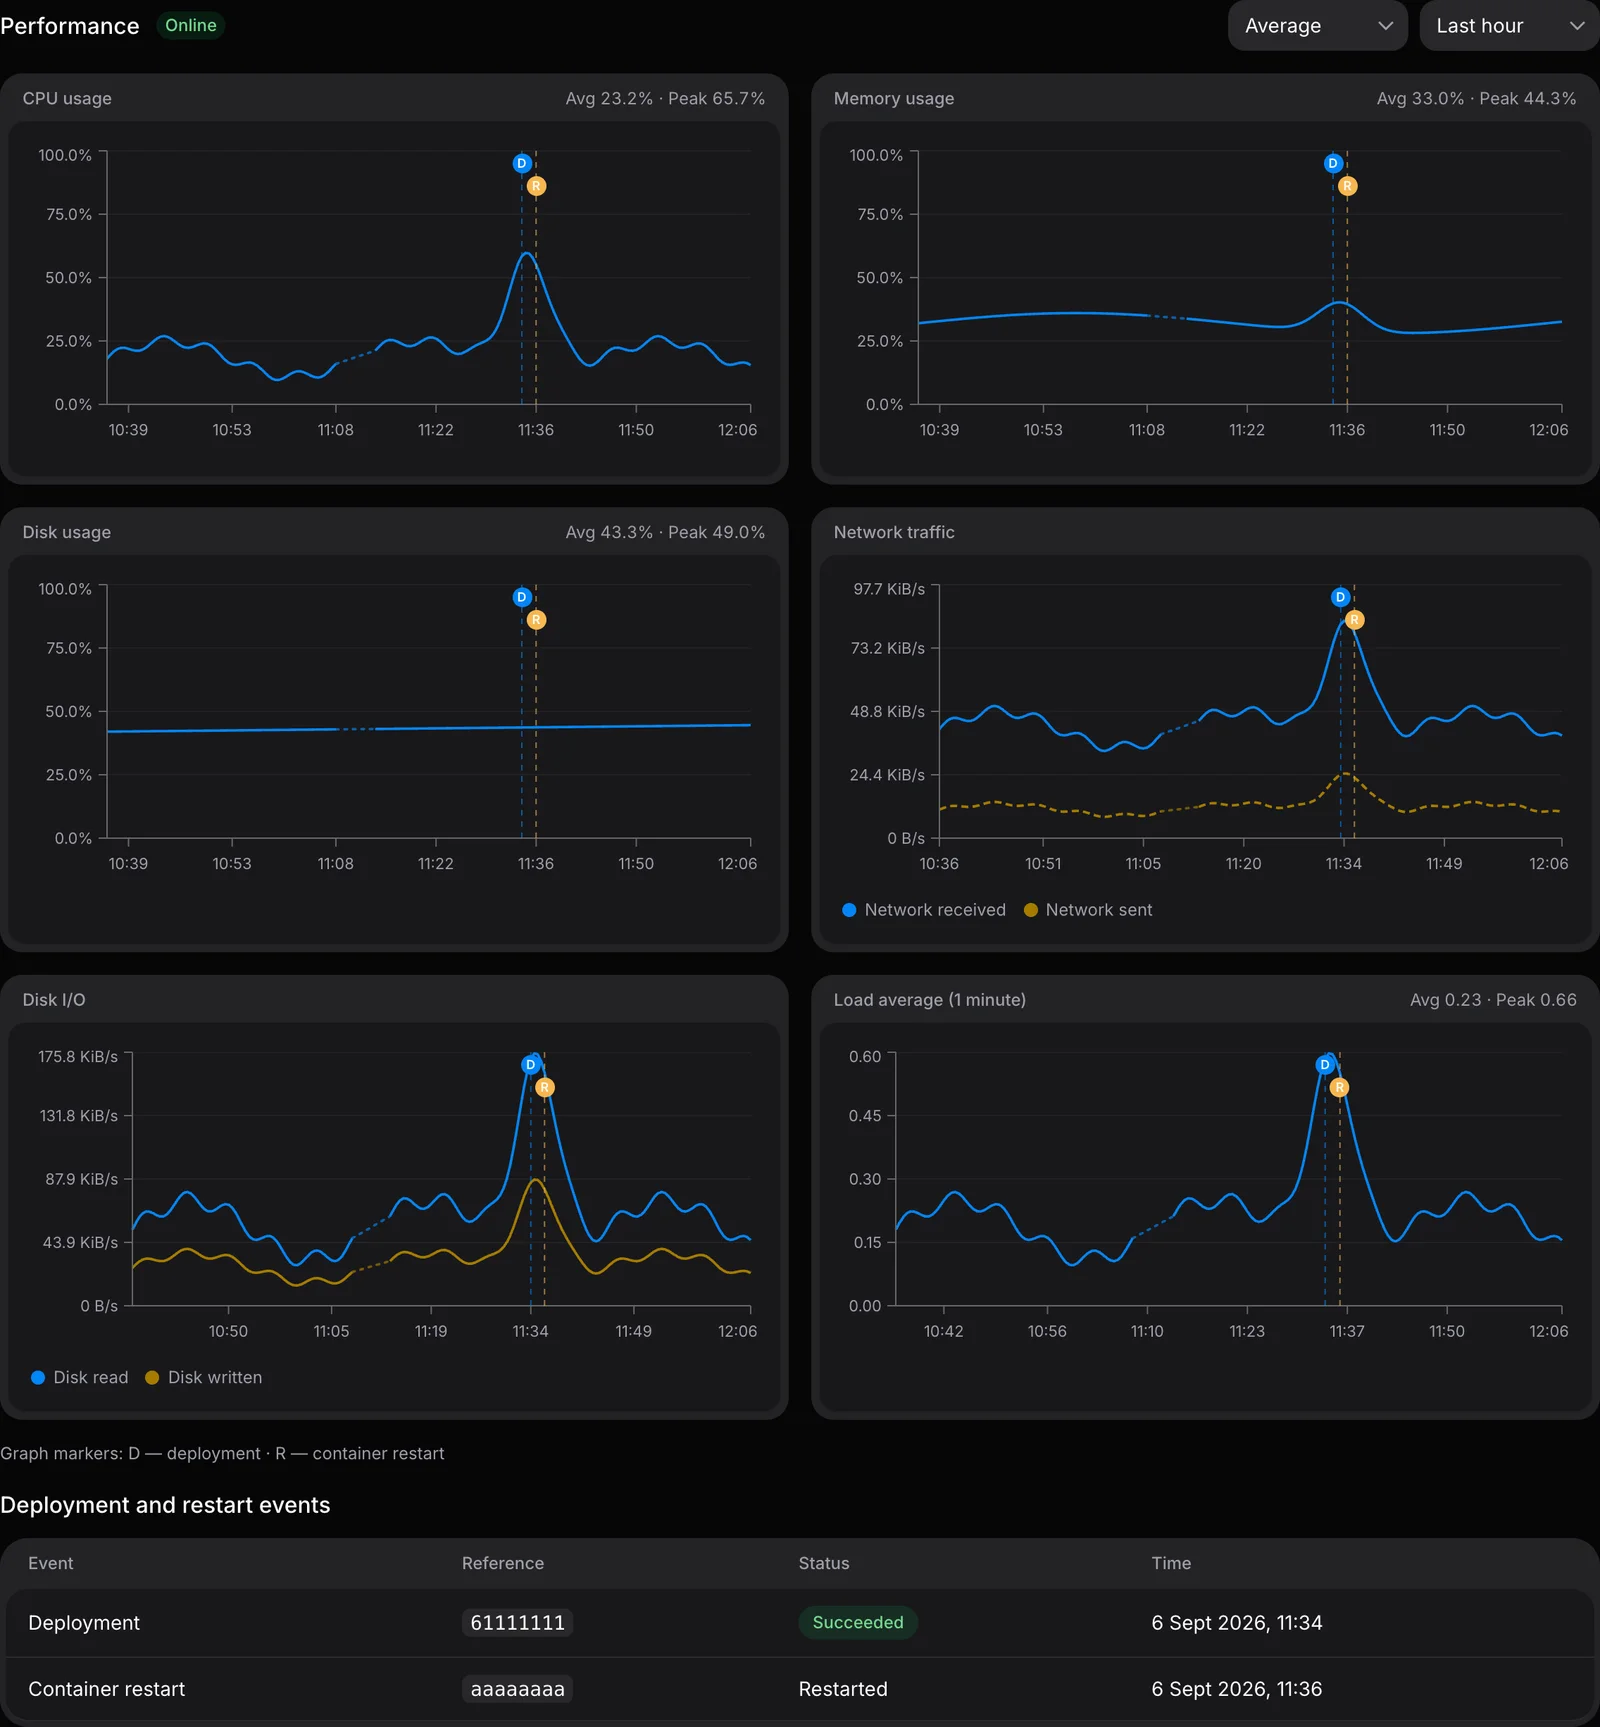
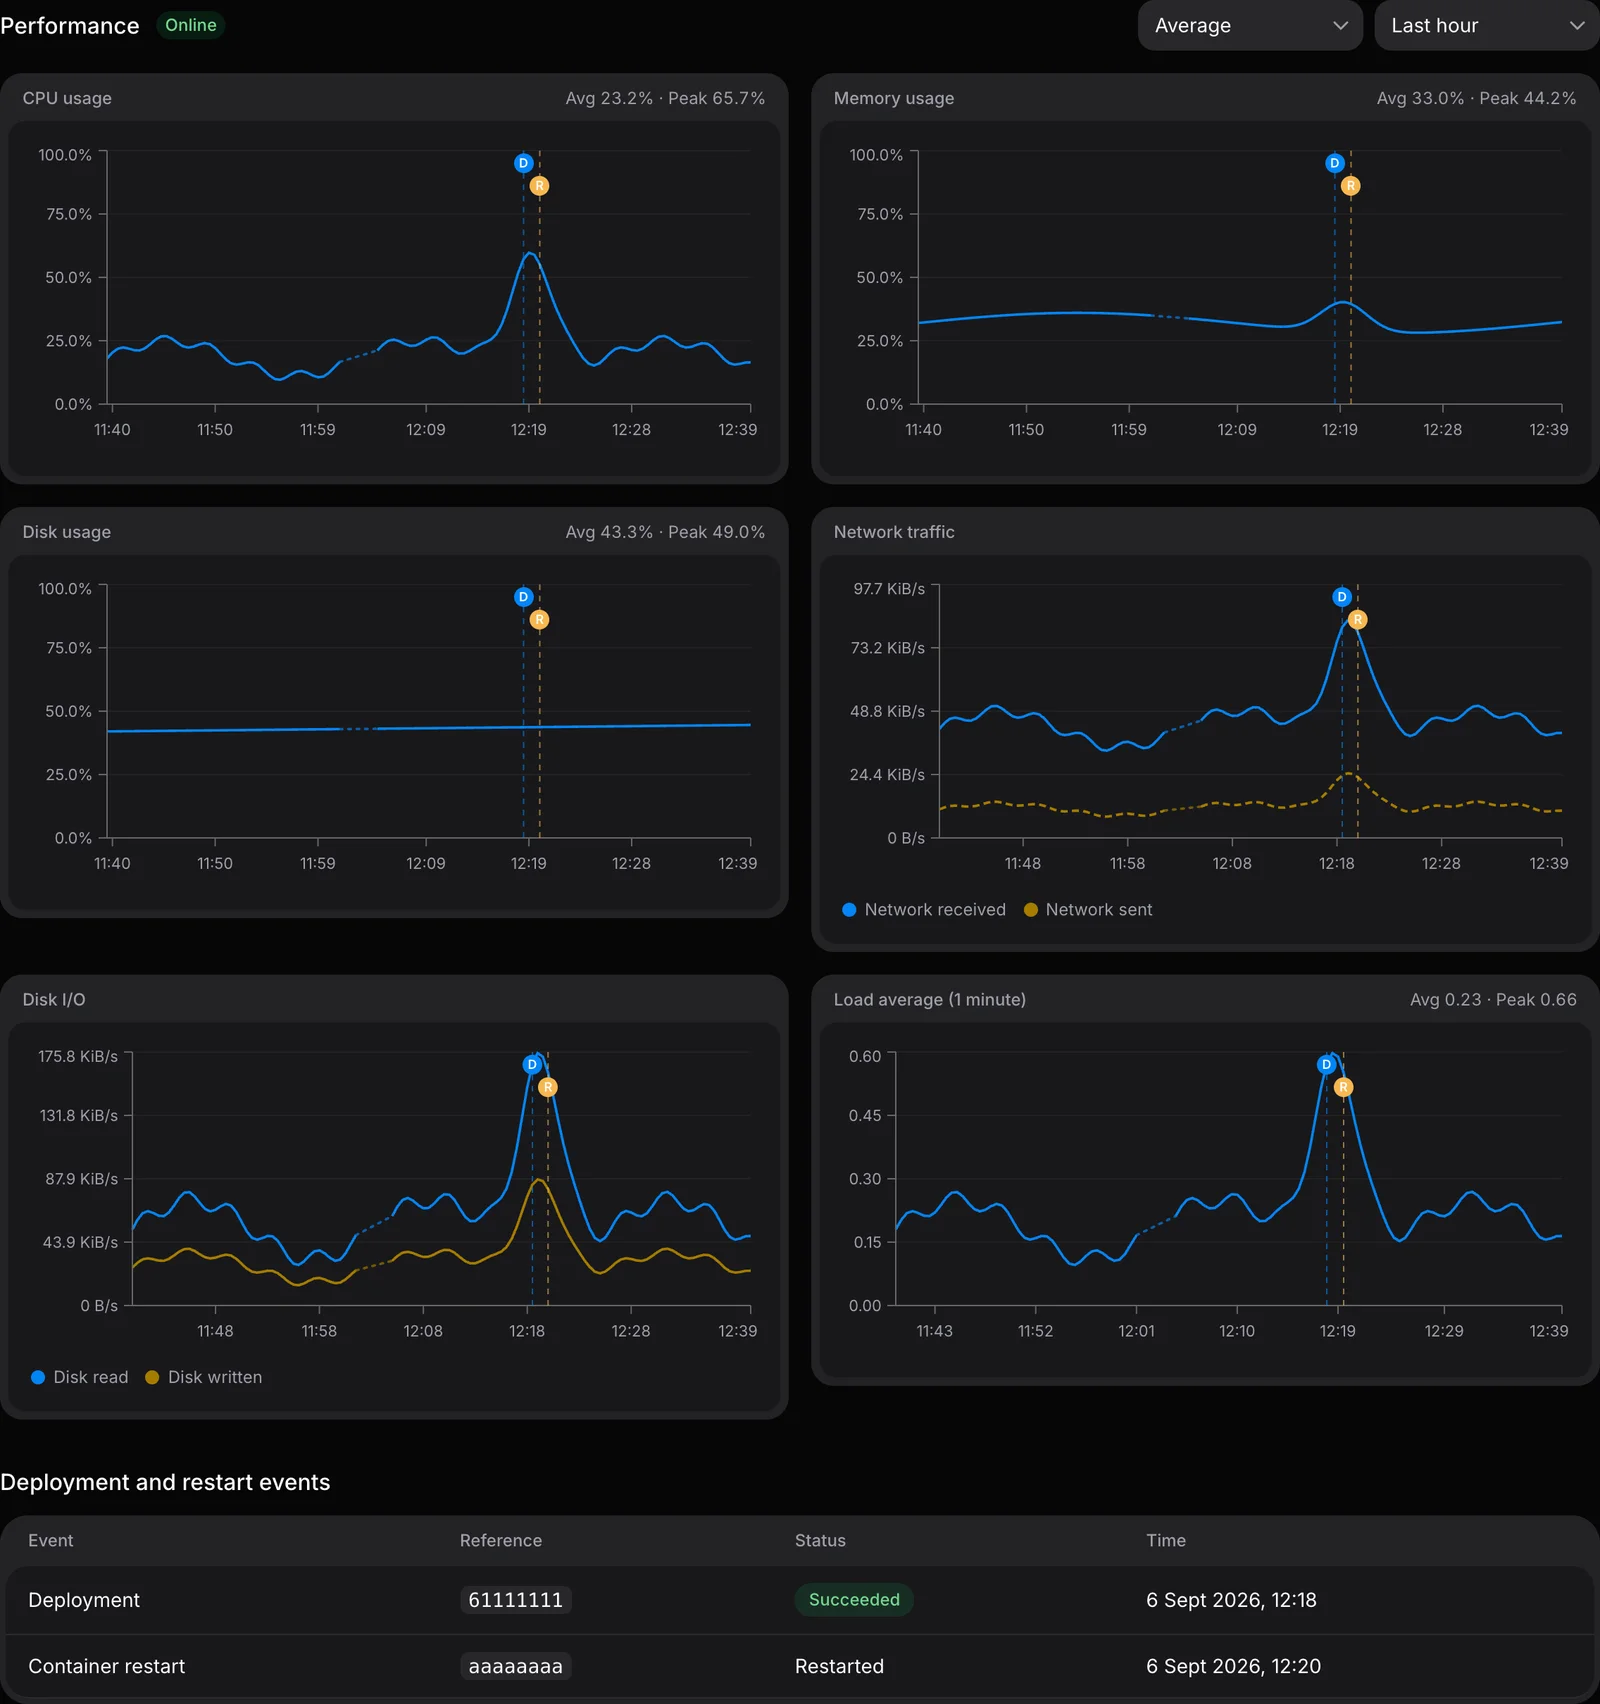
Refine monitoring history layout and bound event pagination

diff --git a/apps/towbar-web-app/src/components/monitoring-events.tsx b/apps/towbar-web-app/src/components/monitoring-events.tsx
@@ -5,11 +5,17 @@ import {
   ResourceTable,
   type ResourceTableColumn,
 } from "@workspace/towbar-web-ui/resource-table";
+import { useTablePagination } from "@workspace/web-design-system/hooks/use-table-pagination";
+import { Pagination } from "@workspace/web-design-system/navigation/pagination";
 import { StatusBadge } from "@workspace/towbar-web-ui/status-badge";
 import { TypographyCode } from "@workspace/web-design-system/typography/typography";
 const eventDateFormatter = new Intl.DateTimeFormat(undefined, {
   dateStyle: "medium",
   timeStyle: "short",
+});
+const eventTooltipDateFormatter = new Intl.DateTimeFormat(undefined, {
+  dateStyle: "medium",
+  timeStyle: "long",
 });
 const formatDate = (at: string) => eventDateFormatter.format(new Date(at));
 
@@ -45,26 +51,48 @@ const columns: ResourceTableColumn<Event>[] = [
 
 export const MonitoringEvents = memo(function MonitoringEvents({
   events,
+  limited,
 }: {
   events: Event[];
+  limited: boolean;
 }) {
+  const pagination = useTablePagination({ pageSize: 10, total: events.length });
+  const visibleEvents = events.slice(
+    pagination.offset,
+    pagination.offset + pagination.pageSize,
+  );
   return (
     <section
-      className="grid min-w-0 gap-3"
+      className="mt-4 grid min-w-0 gap-3"
       aria-label="Deployment and restart events"
     >
       <h3 className="font-medium">Deployment and restart events</h3>
-      <div className="max-h-96 overflow-auto">
+      <div className="overflow-x-auto">
         <ResourceTable
           ariaLabel="Deployment and restart events"
           columns={columns}
-          items={events}
+          items={visibleEvents}
           getRowKey={(event) => `${event.type}:${event.id}:${event.at}`}
           emptyTitle="No events in this range"
           emptyDescription="Deployments and container restarts will appear here."
           tableClassName="min-w-[580px]"
         />
       </div>
+      {events.length > pagination.pageSize ? (
+        <Pagination
+          aria-label="Deployment and restart event pages"
+          page={pagination.page}
+          size="sm"
+          totalPages={pagination.totalPages ?? 1}
+          onPageChange={pagination.setPage}
+        />
+      ) : null}
+      {limited ? (
+        <p className="text-xs text-muted">
+          Showing the latest {events.length} events in this duration. Choose a
+          shorter duration to see more detail.
+        </p>
+      ) : null}
     </section>
   );
 });
@@ -82,7 +110,10 @@ export function MonitoringEventMarker({
   viewBox?: { x?: number; y?: number };
 }) {
   const [open, setOpen] = useState(false);
-  const date = useMemo(() => formatDate(event.at), [event.at]);
+  const date = useMemo(
+    () => eventTooltipDateFormatter.format(new Date(event.at)),
+    [event.at],
+  );
   useEffect(() => () => onActiveChange?.(false), [onActiveChange]);
   const changeOpen = (active: boolean) => {
     setOpen(active);

diff --git a/apps/towbar-web-app/scripts/monitoring-fixture.ts b/apps/towbar-web-app/scripts/monitoring-fixture.ts
@@ -43,11 +43,14 @@ export function fixtureMonitoringHistory(
     30,
     Math.ceil(Math.min(seconds, agent.retentionDays * 86400) / 180 / 30) * 30,
   );
+  const duration = Math.min(seconds, agent.retentionDays * 86400);
+  const intervals = Math.ceil(duration / step);
   const end = Math.floor(Date.now() / step / 1000) * step * 1000;
-  const start = end - 180 * step * 1000;
+  const start = end - duration * 1000;
   const preview = query.get("environment") === "preview";
   const id = "a".repeat(64);
-  const points = Array.from({ length: 181 }, (_, index) => {
+  const points = Array.from({ length: intervals }, (_, bucket) => {
+    const index = (bucket / intervals) * 180;
     const pulse = Math.exp(-((index - 118) ** 2) / 80) * 47;
     const cpu = Math.max(
       0,
@@ -70,7 +73,7 @@ export function fixtureMonitoringHistory(
       restartCount: index < 120 ? 0 : 1,
     };
     return {
-      at: new Date(start + index * step * 1000).toISOString(),
+      at: new Date(start + bucket * step * 1000).toISOString(),
       metrics: Object.fromEntries(
         Object.entries(values).map(([key, value]) => [
           key,
@@ -78,7 +81,10 @@ export function fixtureMonitoringHistory(
         ]),
       ) as MonitoringAggregates,
     };
-  }).filter((_, index) => index < 65 || index > 74);
+  }).filter((_, bucket) => {
+    const index = (bucket / intervals) * 180;
+    return index < 65 || index > 74;
+  });
   return {
     agent: {
       ...agent,
@@ -92,7 +98,7 @@ export function fixtureMonitoringHistory(
     serverId,
     range,
     startAt: new Date(start).toISOString(),
-    endAt: new Date(end + step * 1000).toISOString(),
+    endAt: new Date(end).toISOString(),
     stepSeconds: step,
     series: agent.version
       ? [
@@ -107,17 +113,22 @@ export function fixtureMonitoringHistory(
         ]
       : [],
     seriesLimited: false,
+    eventsLimited: false,
     events: agent.version
       ? [
           {
             id: "61111111-1111-4111-8111-111111111111",
-            at: new Date(start + 116 * step * 1000).toISOString(),
+            at: new Date(
+              start + Math.floor((intervals * 116) / 180) * step * 1000,
+            ).toISOString(),
             type: "deployment",
             state: "succeeded",
           },
           {
             id,
-            at: new Date(start + 120 * step * 1000).toISOString(),
+            at: new Date(
+              start + Math.floor((intervals * 120) / 180) * step * 1000,
+            ).toISOString(),
             type: "restart",
             state: "restarted",
           },

diff --git a/apps/towbar-api/src/areas/monitoring/queries.ts b/apps/towbar-api/src/areas/monitoring/queries.ts
@@ -120,7 +120,7 @@ export async function getMonitoringHistory(
     at: string;
     state: string;
   }>(sql`
-    select id,created_at::text at,state from towbar_deployments where server_id=${serverId}::uuid and created_at>=${start.toISOString()}::timestamptz and created_at<${end.toISOString()}::timestamptz and ${eventScope} order by created_at desc limit 200`);
+    select id,created_at::text at,state from towbar_deployments where server_id=${serverId}::uuid and created_at>=${start.toISOString()}::timestamptz and created_at<${end.toISOString()}::timestamptz and ${eventScope} order by created_at desc,id desc limit 201`);
   const restartFilter = input.deployableId
     ? filter
     : sql`server_id=${serverId}::uuid and bucket_at>=${start.toISOString()}::timestamptz and bucket_at<${end.toISOString()}::timestamptz and entity_id<>'host'`;
@@ -129,7 +129,25 @@ export async function getMonitoringHistory(
       (metrics->'restartCount'->>'max')::double precision restarts,
       lag((metrics->'restartCount'->>'max')::double precision) over(partition by entity_id order by bucket_at) previous
       from towbar_monitoring_samples where ${restartFilter})
-    select entity_id id,bucket_at::text at from changes where restarts>previous order by bucket_at desc limit 200`);
+    select entity_id id,bucket_at::text at from changes where restarts>previous order by bucket_at desc,id desc limit 201`);
+  const combinedEvents = [
+    ...events.map((row) => ({
+      ...row,
+      at: new Date(row.at).toISOString(),
+      type: "deployment" as const,
+    })),
+    ...restarts.map((row) => ({
+      ...row,
+      at: new Date(row.at).toISOString(),
+      type: "restart" as const,
+      state: "restarted",
+    })),
+  ].sort(
+    (a, b) =>
+      b.at.localeCompare(a.at) ||
+      b.type.localeCompare(a.type) ||
+      b.id.localeCompare(a.id),
+  );
   return {
     agent,
     serverId,
@@ -139,18 +157,7 @@ export async function getMonitoringHistory(
     stepSeconds: step,
     series,
     seriesLimited: instances.length > 32,
-    events: [
-      ...events.map((row) => ({
-        ...row,
-        at: new Date(row.at).toISOString(),
-        type: "deployment" as const,
-      })),
-      ...restarts.map((row) => ({
-        ...row,
-        at: new Date(row.at).toISOString(),
-        type: "restart" as const,
-        state: "restarted",
-      })),
-    ].sort((a, b) => b.at.localeCompare(a.at)),
+    events: combinedEvents.slice(0, 200),
+    eventsLimited: combinedEvents.length > 200,
   };
 }

diff --git a/apps/towbar-api/src/areas/monitoring/event-history.test-support.ts b/apps/towbar-api/src/areas/monitoring/event-history.test-support.ts
@@ -1,0 +1,65 @@
+import assert from "node:assert/strict";
+import { randomUUID } from "node:crypto";
+import { eq } from "drizzle-orm";
+import { deployments } from "@workspace/towbar-database/schema";
+import { getTowbarDatabase } from "../../infrastructure/database.js";
+import { getMonitoringHistory } from "./queries.js";
+
+export async function verifyEventHistoryBounds(
+  serverId: string,
+  workspaceId: string,
+  now: Date,
+) {
+  const db = getTowbarDatabase();
+  const [template] = await db
+    .select()
+    .from(deployments)
+    .where(eq(deployments.serverId, serverId))
+    .limit(1);
+  assert(template);
+  const row = (createdAt: Date) => {
+    const id = randomUUID();
+    return {
+      ...template,
+      id,
+      idempotencyKey: id,
+      temporalWorkflowId: id,
+      createdAt,
+    };
+  };
+  const old = row(new Date(now.getTime() - 2 * 3600_000));
+  const future = row(new Date(now.getTime() + 3600_000));
+  await db.insert(deployments).values([old, future]);
+  const query = { serverId, workspaceId, environment: "production" as const };
+  const hour = await getMonitoringHistory({ ...query, range: "1h" }, now);
+  assert(
+    !hour.events.some((event) => event.id === old.id || event.id === future.id),
+  );
+  const sixHours = await getMonitoringHistory({ ...query, range: "6h" }, now);
+  assert(sixHours.events.some((event) => event.id === old.id));
+  assert(!sixHours.events.some((event) => event.id === future.id));
+  await db
+    .insert(deployments)
+    .values(
+      Array.from({ length: 203 }, (_, i) =>
+        row(new Date(now.getTime() - 60_000 - i * 1000)),
+      ),
+    );
+  const capped = await getMonitoringHistory({ ...query, range: "1h" }, now);
+  assert.equal(capped.events.length, 200);
+  assert.equal(capped.eventsLimited, true);
+  assert(
+    capped.events.every(
+      (event) => event.at >= capped.startAt && event.at < capped.endAt,
+    ),
+  );
+  assert.deepEqual(
+    capped.events.map((event) => event.at),
+    capped.events
+      .map((event) => event.at)
+      .sort()
+      .reverse(),
+  );
+  const repeated = await getMonitoringHistory({ ...query, range: "1h" }, now);
+  assert.deepEqual(repeated.events, capped.events);
+}

diff --git a/apps/towbar-web-app/src/components/monitoring-history.tsx b/apps/towbar-web-app/src/components/monitoring-history.tsx
@@ -108,11 +108,9 @@ export function MonitoringHistory({
         <div className="flex items-center gap-3">
           <h2 className="font-medium">Performance</h2>
           <MonitoringStatus agent={agent} />
-          {updating ? (
-            <span role="status" className="text-xs text-muted">
-              Updating charts…
-            </span>
-          ) : null}
+          <span role="status" className="sr-only">
+            {updating ? "Updating charts…" : ""}
+          </span>
         </div>
         <div className="flex max-w-full flex-wrap items-center gap-2">
           {workload ? (
@@ -189,18 +187,17 @@ export function MonitoringHistory({
               />
             ))}
           </div>
-          {history.events.length ? (
-            <p className="text-xs text-muted">
-              Graph markers: D — deployment · R — container restart
-            </p>
-          ) : null}
           {history.seriesLimited ? (
             <p className="text-xs text-muted">
               Showing the 32 most recent instances. Choose a shorter range to
               inspect more detail.
             </p>
           ) : null}
-          <MonitoringEvents events={history.events} />
+          <MonitoringEvents
+            key={`${path}:${history.range}:${environment}:${instance}`}
+            events={history.events}
+            limited={history.eventsLimited}
+          />
         </>
       )}
     </section>
@@ -262,7 +259,7 @@ function HistorySelect({
         if (key) onChange(String(key));
       }}
       variant="secondary"
-      className="min-w-32 max-w-64"
+      className="w-40 max-w-full shrink-0"
     >
       <Label className="sr-only">{label}</Label>
       <Select.Trigger>

diff --git a/apps/towbar-api/src/areas/monitoring/monitoring.integration.test.ts b/apps/towbar-api/src/areas/monitoring/monitoring.integration.test.ts
@@ -502,6 +502,9 @@ void test(
               .length,
             0,
           );
+          const { verifyEventHistoryBounds } =
+            await import("./event-history.test-support.js");
+          await verifyEventHistoryBounds(serverId, workspaceId, now);
           await db
             .delete(deployments)
             .where(eq(deployments.sourceId, sourceId));

diff --git a/apps/towbar-web-app/src/components/monitoring-metric-chart.tsx b/apps/towbar-web-app/src/components/monitoring-metric-chart.tsx
@@ -133,7 +133,7 @@ export const MetricChart = memo(function MetricChart({
   const tooltipDateFormatter = useMemo(() => {
     const formatter = new Intl.DateTimeFormat(undefined, {
       dateStyle: "medium",
-      timeStyle: "medium",
+      timeStyle: "long",
     });
     return (value: unknown) => formatter.format(Number(value));
   }, []);

diff --git a/packages/towbar-core/src/monitoring.ts b/packages/towbar-core/src/monitoring.ts
@@ -187,6 +187,7 @@ export type MonitoringHistory = {
   stepSeconds: number;
   series: MonitoringSeries[];
   seriesLimited: boolean;
+  eventsLimited: boolean;
   events: Array<{
     id: string;
     at: string;
